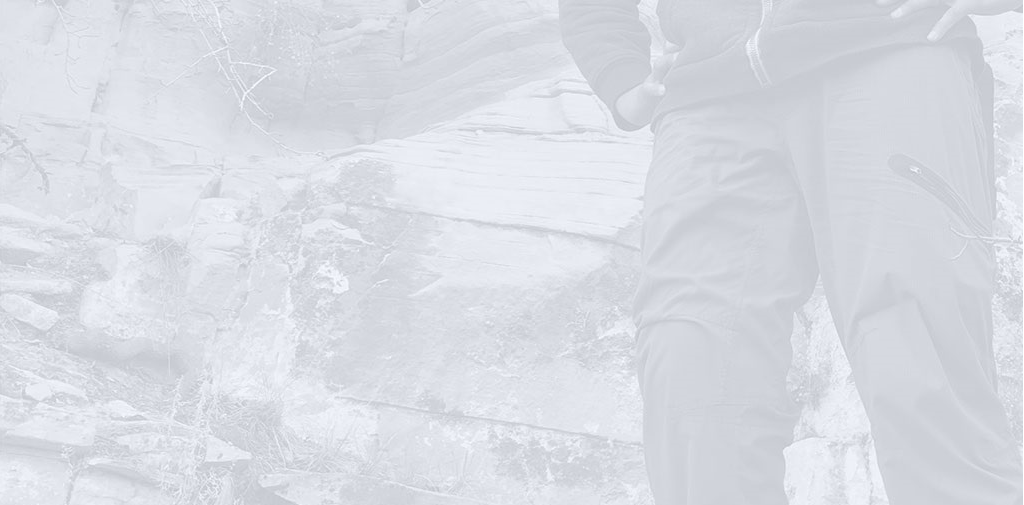
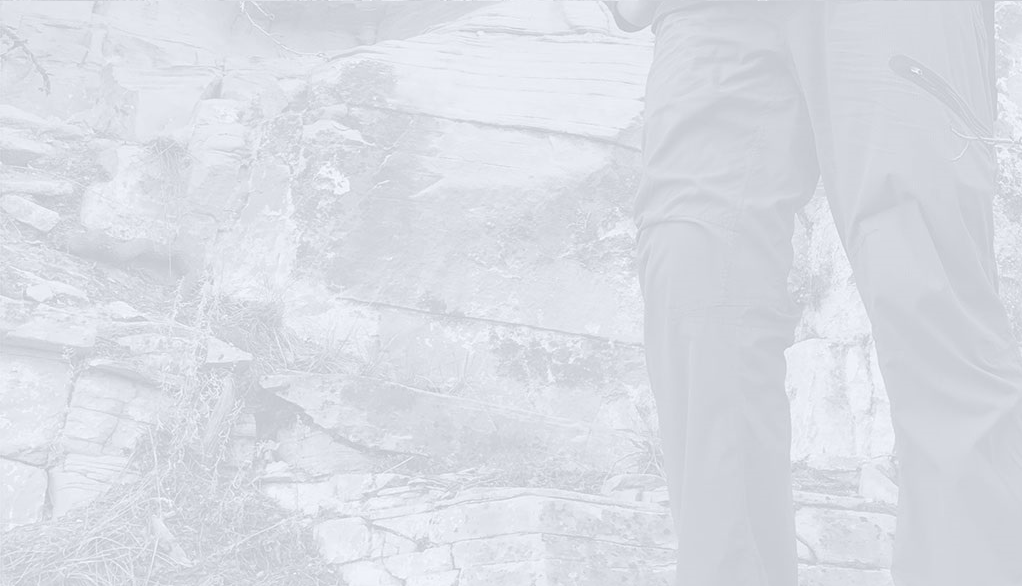
redid about page, removed parallax

diff --git a/style.css b/style.css
@@ -6,7 +6,7 @@ Description: Custom made theme for Guru Fit Club
 Version: 1.0
 */
 html, body {
-	color: #2a0d45;
+	color: #555252;
 	font-family: 'Roboto', sans-serif;
 }
 
@@ -40,7 +40,7 @@ img {
 	max-width: 100%;
 }
 
-#main {
+.page-template-home #main {
 	margin-bottom: 50px;
 }
 
@@ -434,18 +434,20 @@ input:focus , textarea:focus {
 
 /*About */
 
-.upper, .lower {
- /* height: 200vh;*/
- /* width: 100%;*/
-    background-image: url(img/upper.png);
+.test{
+
+    background-image: url(img/about-bg.jpg);
     background-repeat: no-repeat;
     background-size: cover;
 /*    display: table;*/
-    background-attachment: fixed;
-    background-position: top;
+/*    background-attachment: fixed;*/
+    background-position: top right;
 /*    transform: translate3d(0px, -0px, 100px);*/
 /*margin-bottom: 100px;*/
 }
+
+/*on mobile 
+   background-size: contain*/
 
 .lower {
   background-image: url(img/lower.png);
@@ -453,8 +455,8 @@ input:focus , textarea:focus {
 
 .about-container {
   padding: 50px;
-  padding-top: 100px;
-  padding-bottom: 100px;
+  padding-top: 150px;
+  padding-bottom: 150px;
 }
 
 .about-container p {
@@ -484,6 +486,11 @@ input:focus , textarea:focus {
 
 .bio-bottom {
   padding-bottom: 50px;
+}
+
+.carousel-container {
+  background-color:#ebebeb;
+  padding: 50px 15px;
 }
 
 /*credit https://codepen.io/mephysto/pen/ZYVKRY*/
@@ -534,6 +541,10 @@ input:focus , textarea:focus {
   width: 50px;
   opacity: 1;
   background-image: none;
+}
+
+.multi-item-carousel .carousel-control .glyphicon {
+  color:#555252;
 }
 
 footer {

diff --git a/js/modal.js b/js/modal.js
@@ -1,0 +1,23 @@
+var modal = document.getElementById('myModal');
+
+// Get the image and insert it inside the modal - use its "alt" text as a caption
+var img = document.getElementsByClassName('img-pop');
+var modalImg = document.getElementById("img01");
+var captionText = document.getElementById("caption");
+for (var i = 0; i < img.length; i++) {
+  img[i].onclick = function(){
+  debugger
+    modal.style.display = "block";
+    modalImg.src = this.src;
+    // captionText.innerHTML = this.alt;
+  }
+}
+
+// Get the <span> element that closes the modal
+var span = document.getElementsByClassName("close")[0];
+
+// When the user clicks on <span> (x), close the modal
+span.onclick = function() { 
+  modal.style.display = "none";
+}
+

diff --git a/about.php b/about.php
@@ -1,6 +1,6 @@
 <?php /* Template Name: About */ ?>
 <?php get_header(); ?>
-<div class="parallax-window" data-parallax="scroll" data-image-src="<?php bloginfo('template_url'); ?>/img/upper.png" class="upper">
+<div class="test">
   <div class="about-container">
     <h1>About</h1>
     <p>Certified Personal Trainer</p>
@@ -12,56 +12,111 @@
       <p>It is a long established fact that a reader will be distracted by the readable content of a page when looking at its layout. The point of using Lorem Ipsum is that it has a more-or-less normal distribution of letters, as opposed to using 'Content here, content here', making it look like readable English. Many desktop publishing packages and web page editors now use Lorem Ipsum as their default model text, and a search for 'lorem ipsum' will uncover many web sites still in their infancy. Various versions have evolved over the years, sometimes by accident, sometimes on purpose (injected humour and the like).</p>
       <p>It is a long established fact that a reader will be distracted by the readable content of a page when looking at its layout. The point of using Lorem Ipsum is that it has a more-or-less normal distribution of letters, as opposed to using 'Content here, content here', making it look like readable English. Many desktop publishing packages and web page editors now use Lorem Ipsum as their default model text, and a search for 'lorem ipsum' will uncover many web sites still in their infancy. Various versions have evolved over the years, sometimes by accident, sometimes on purpose (injected humour and the like).</p>
       <p>It is a long established fact that a reader will be distracted by the readable content of a page when looking at its layout. The point of using Lorem Ipsum is that it has a more-or-less normal distribution of letters, as opposed to using 'Content here, content here', making it look like readable English. Many desktop publishing packages and web page editors now use Lorem Ipsum as their default model text, and a search for 'lorem ipsum' will uncover many web sites still in their infancy. Various versions have evolved over the years, sometimes by accident, sometimes on purpose (injected humour and the like).</p>
-    </div>
-  </div>
-</div>
-<div class="parallax-window" data-parallax="scroll" data-image-src="<?php bloginfo('template_url'); ?>/img/lower.png" class="lower">
-  <div class="bio-container">
-    <div class="bio bio-bottom">
+      <p>It is a long established fact that a reader will be distracted by the readable content of a page when looking at its layout. The point of using Lorem Ipsum is that it has a more-or-less normal distribution of letters, as opposed to using 'Content here, content here', making it look like readable English. Many desktop publishing packages and web page editors now use Lorem Ipsum as their default model text, and a search for 'lorem ipsum' will uncover many web sites still in their infancy. Various versions have evolved over the years, sometimes by accident, sometimes on purpose (injected humour and the like).</p>
       <p>It is a long established fact that a reader will be distracted by the readable content of a page when looking at its layout. The point of using Lorem Ipsum is that it has a more-or-less normal distribution of letters, as opposed to using 'Content here, content here', making it look like readable English. Many desktop publishing packages and web page editors now use Lorem Ipsum as their default model text, and a search for 'lorem ipsum' will uncover many web sites still in their infancy. Various versions have evolved over the years, sometimes by accident, sometimes on purpose (injected humour and the like).</p>
       <p>It is a long established fact that a reader will be distracted by the readable content of a page when looking at its layout. The point of using Lorem Ipsum is that it has a more-or-less normal distribution of letters, as opposed to using 'Content here, content here', making it look like readable English. Many desktop publishing packages and web page editors now use Lorem Ipsum as their default model text, and a search for 'lorem ipsum' will uncover many web sites still in their infancy. Various versions have evolved over the years, sometimes by accident, sometimes on purpose (injected humour and the like).</p>
     </div>
   </div>
-  <br><br><br><br><br><br><br><br><br>
-</div>
-
- <div class="container-fluid" style="background-color: grey">
-  <div class="row">
-    <div class="col-md-12">
-      <div class="carousel slide multi-item-carousel" id="theCarousel">
-        <div class="carousel-inner">
-          <div class="item active">
-            <div class="col-xs-4"><a href="#1"><img src="http://placehold.it/300/f44336/000000" class="img-responsive"></a></div>
+  <br><br><br><br><br><br><br><br><br><br>
+  <?php if( have_rows( 'image_gallery') ){ ?>
+  <?php $first = true;?>
+  <div class="container-fluid carousel-container">
+    <div class="row">
+      <div class="col-md-12">
+        <div class="carousel slide multi-item-carousel" id="theCarousel">
+          <div class="carousel-inner">
+            <?php while ( have_rows( 'image_gallery') ) { the_row(); ?> 
+            <div class="item <?php if ($first){ echo 'active';  $first = false; } ?>">
+              <?php $image=get_sub_field( 'img'); ?>
+              <div class="col-xs-4"><a href="#1"><img class="img-pop img-responsive" src="<?php echo $image['url']; ?>" alt="<?php echo $image['alt']; ?>" title="<?php echo $image['title']; ?>"></a></div>
+            </div>
+            <?php  } ?>
           </div>
-          <div class="item">
-            <div class="col-xs-4"><a href="#1"><img src="http://placehold.it/300/e91e63/000000" class="img-responsive"></a></div>
-          </div>
-          <div class="item">
-            <div class="col-xs-4"><a href="#1"><img src="http://placehold.it/300/9c27b0/000000" class="img-responsive"></a></div>
-          </div>
-          <div class="item">
-            <div class="col-xs-4"><a href="#1"><img src="http://placehold.it/300/673ab7/000000" class="img-responsive"></a></div>
-          </div>
-          <div class="item">
-            <div class="col-xs-4"><a href="#1"><img src="http://placehold.it/300/4caf50/000000" class="img-responsive"></a></div>
-          </div>
-          <div class="item">
-            <div class="col-xs-4"><a href="#1"><img src="http://placehold.it/300/8bc34a/000000" class="img-responsive"></a></div>
-          </div>
-          <!-- add  more items here -->
-          <!-- Example item start:  -->
-          
-          <div class="item">
-            <div class="col-xs-4"><a href="#1"><img src="http://placehold.it/300/8bc34a/000000" class="img-responsive"></a></div>
-          </div>
-          
-          <!--  Example item end -->
+          <a class="left carousel-control" href="#theCarousel" data-slide="prev"><i class="glyphicon glyphicon-chevron-left"></i></a>
+          <a class="right carousel-control" href="#theCarousel" data-slide="next"><i class="glyphicon glyphicon-chevron-right"></i></a>
         </div>
-        <a class="left carousel-control" href="#theCarousel" data-slide="prev"><i class="glyphicon glyphicon-chevron-left"></i></a>
-        <a class="right carousel-control" href="#theCarousel" data-slide="next"><i class="glyphicon glyphicon-chevron-right"></i></a>
       </div>
     </div>
   </div>
+  <?php }; ?>
+  <div id="myModal" class="modal">
+    <!-- The Close Button -->
+    <span class="close">&times;</span>
+    <!-- Modal Content (The Image) -->
+    <img class="modal-content" id="img01">
+    <!-- Modal Caption (Image Text) -->
+    <!--   <div id="caption"></div> -->
+  </div>
+  <style type="text/css">
+    #myImg {
+    border-radius: 5px;
+    cursor: pointer;
+    transition: 0.3s;
+    }
+    #myImg:hover {opacity: 0.7;}
+    /* The Modal (background) */
+    .modal {
+    display: none; /* Hidden by default */
+    position: fixed; /* Stay in place */
+    z-index: 400; /* Sit on top */
+    /*padding-top: 100px;  Location of the box */
+    left: 0;
+    top: 0;
+    width: 100%; /* Full width */
+    height: 100%; /* Full height */
+    overflow: auto; /* Enable scroll if needed */
+    background-color: rgb(0,0,0); /* Fallback color */
+    background-color: rgba(0,0,0,0.9); /* Black w/ opacity */
+    }
+    /* Modal Content (Image) */
+    .modal-content {
+    margin: auto;
+    display: block;
+    width: 80%;
+    max-width: 700px;
+    }
+    /* Caption of Modal Image (Image Text) - Same Width as the Image */
+    #caption {
+    margin: auto;
+    display: block;
+    width: 80%;
+    max-width: 700px;
+    text-align: center;
+    color: #ccc;
+    padding: 10px 0;
+    height: 150px;
+    }
+    /* Add Animation - Zoom in the Modal */
+    .modal-content, #caption { 
+    animation-name: zoom;
+    animation-duration: 0.6s;
+    }
+    @keyframes zoom {
+    from {transform:scale(0)} 
+    to {transform:scale(1)}
+    }
+    /* The Close Button */
+    .close {
+    position: absolute;
+    top: 15px;
+    right: 35px;
+    color: #f1f1f1;
+    font-size: 40px;
+    font-weight: bold;
+    transition: 0.3s;
+    }
+    .close:hover,
+    .close:focus {
+    color: #bbb;
+    text-decoration: none;
+    cursor: pointer;
+    }
+    /* 100% Image Width on Smaller Screens */
+    @media only screen and (max-width: 700px){
+    .modal-content {
+    width: 100%;
+    }
+    }
+  </style>
 </div>
-
 <?php get_footer(); ?>

diff --git a/header.php b/header.php
@@ -18,6 +18,7 @@
     <?php wp_head(); ?>
   </head>
   <body <?php body_class(); ?> >
+    <div class="test">
     <div class="pre-navbar">
       <p>For more information call <a  href="tel:<?php the_field("phone", "option"); ?>"><?php the_field("phone", "option"); ?></a></p>
     </div>
@@ -60,5 +61,12 @@
         <!-- /.navbar-collapse -->
       </div>
       <!-- /.container-fluid -->
-    </nav>
+    </nav></div>
   <div id="main">
+    <style type="text/css">
+      
+/*      .test {float: left;
+    position: absolute;
+    width: 100%; top:0;
+  }*/
+    </style>

diff --git a/footer.php b/footer.php
@@ -15,9 +15,6 @@
 	<script type="text/javascript" src="<?php bloginfo('template_url'); ?>/js/main.js"></script>
   <script type="text/javascript" src="<?php bloginfo('template_url'); ?>/js/parallax.js"></script>
   <script type="text/javascript" src="<?php bloginfo('template_url'); ?>/js/carousel.js"></script>
-  <script type="text/javascript">
-
-  </script>
-
+   <script type="text/javascript" src="<?php bloginfo('template_url'); ?>/js/modal.js"></script>
 </body>
 </html>

diff --git a/training-options.php b/training-options.php
@@ -1,0 +1,10 @@
+<?php /* Template Name: Training Options*/ ?>
+<?php get_header(); ?>
+<div class="col-md-6">
+Training Options
+</div>
+<div class="col-md-6">
+
+</div>
+
+<?php get_footer(); ?>

diff --git a/first-session.php b/first-session.php
@@ -1,0 +1,10 @@
+<?php /* Template Name: First Session*/ ?>
+<?php get_header(); ?>
+<div class="col-md-6">
+First session
+</div>
+<div class="col-md-6">
+
+</div>
+
+<?php get_footer(); ?>

diff --git a/contact.php b/contact.php
@@ -1,0 +1,10 @@
+<?php /* Template Name: Contact*/ ?>
+<?php get_header(); ?>
+<div class="col-md-6">
+Contact
+</div>
+<div class="col-md-6">
+
+</div>
+
+<?php get_footer(); ?>
